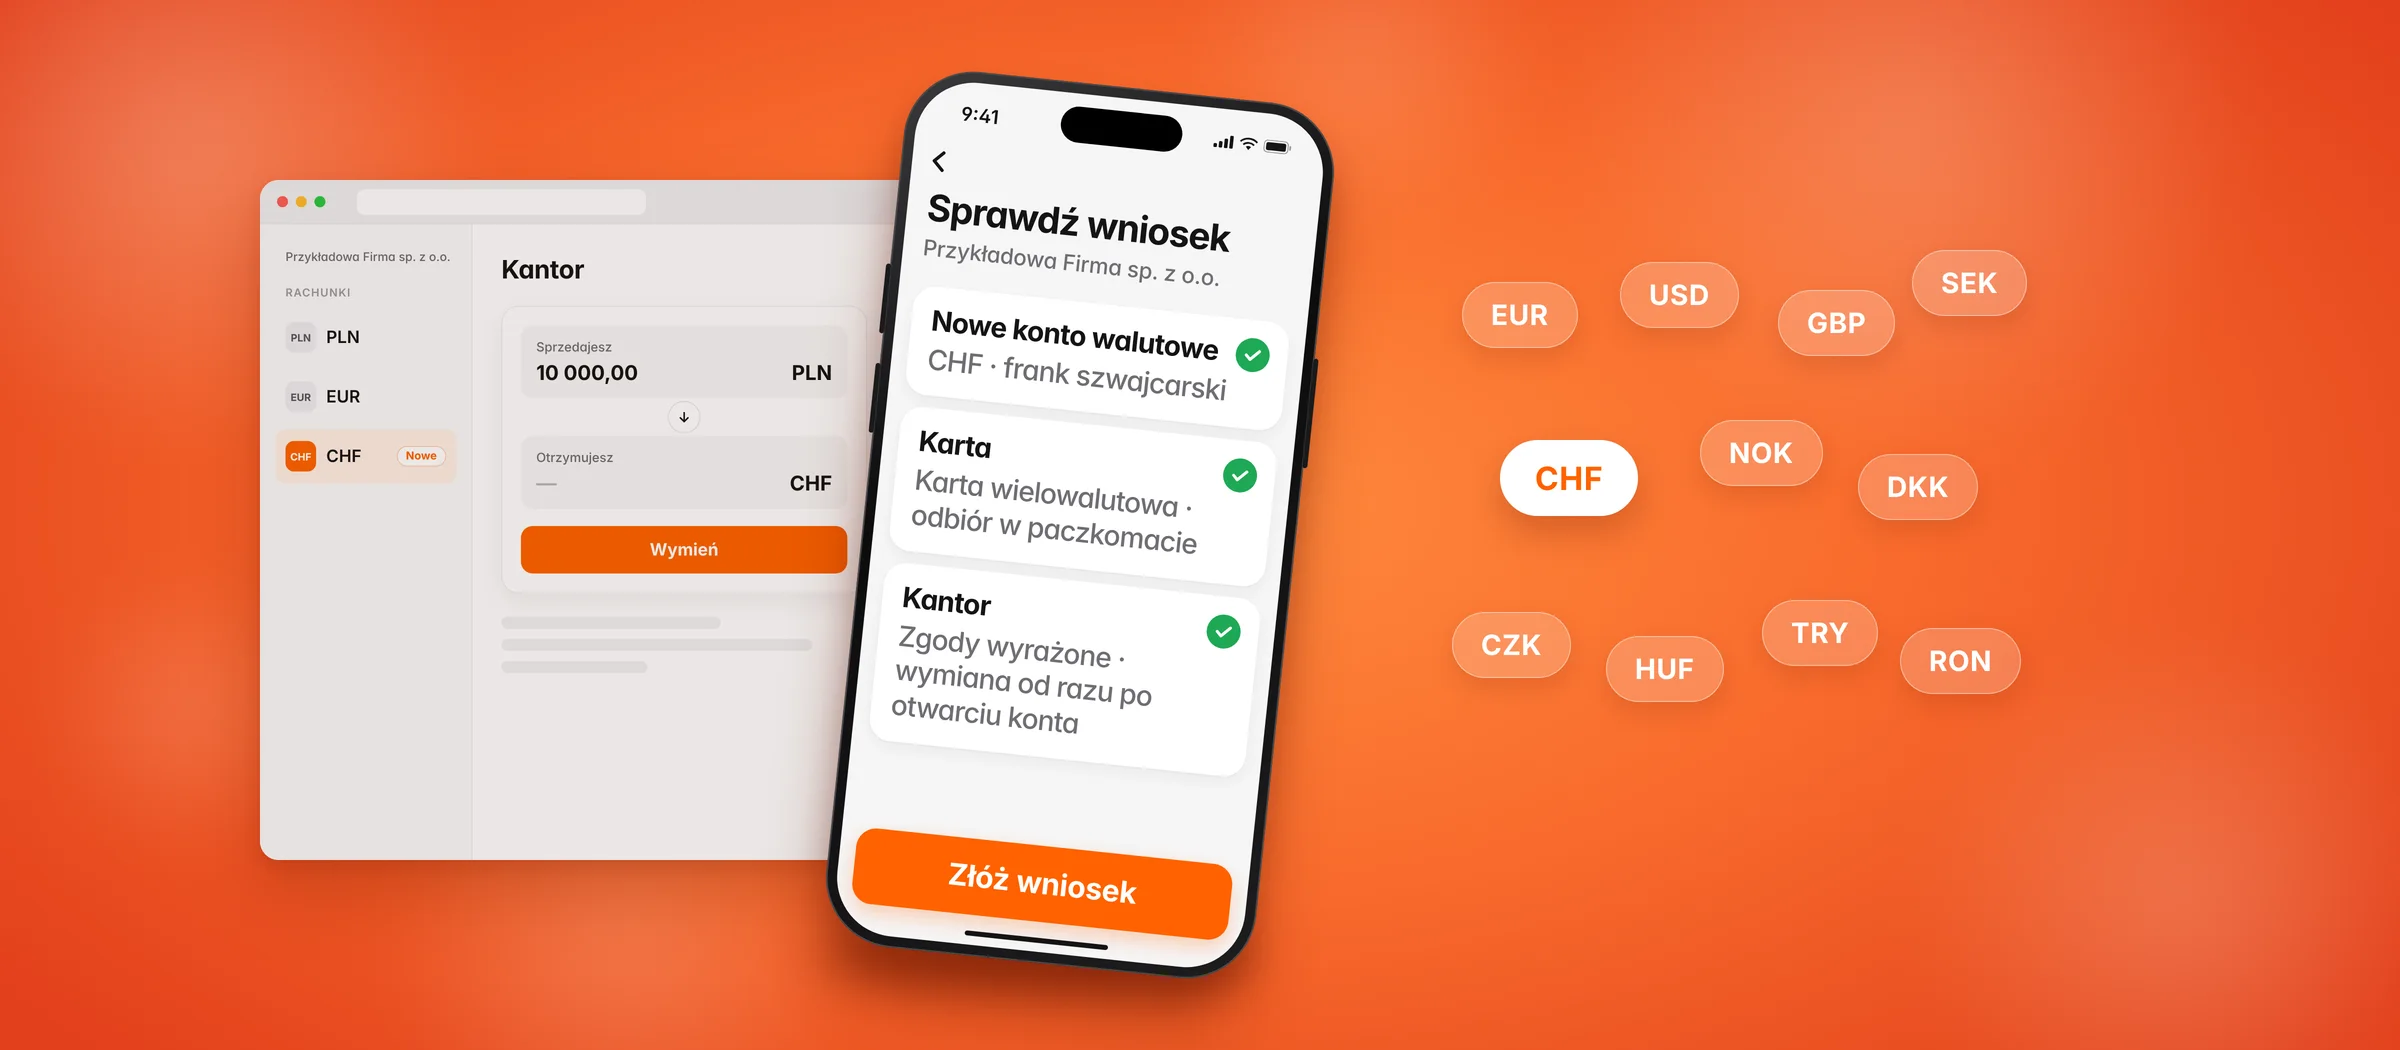
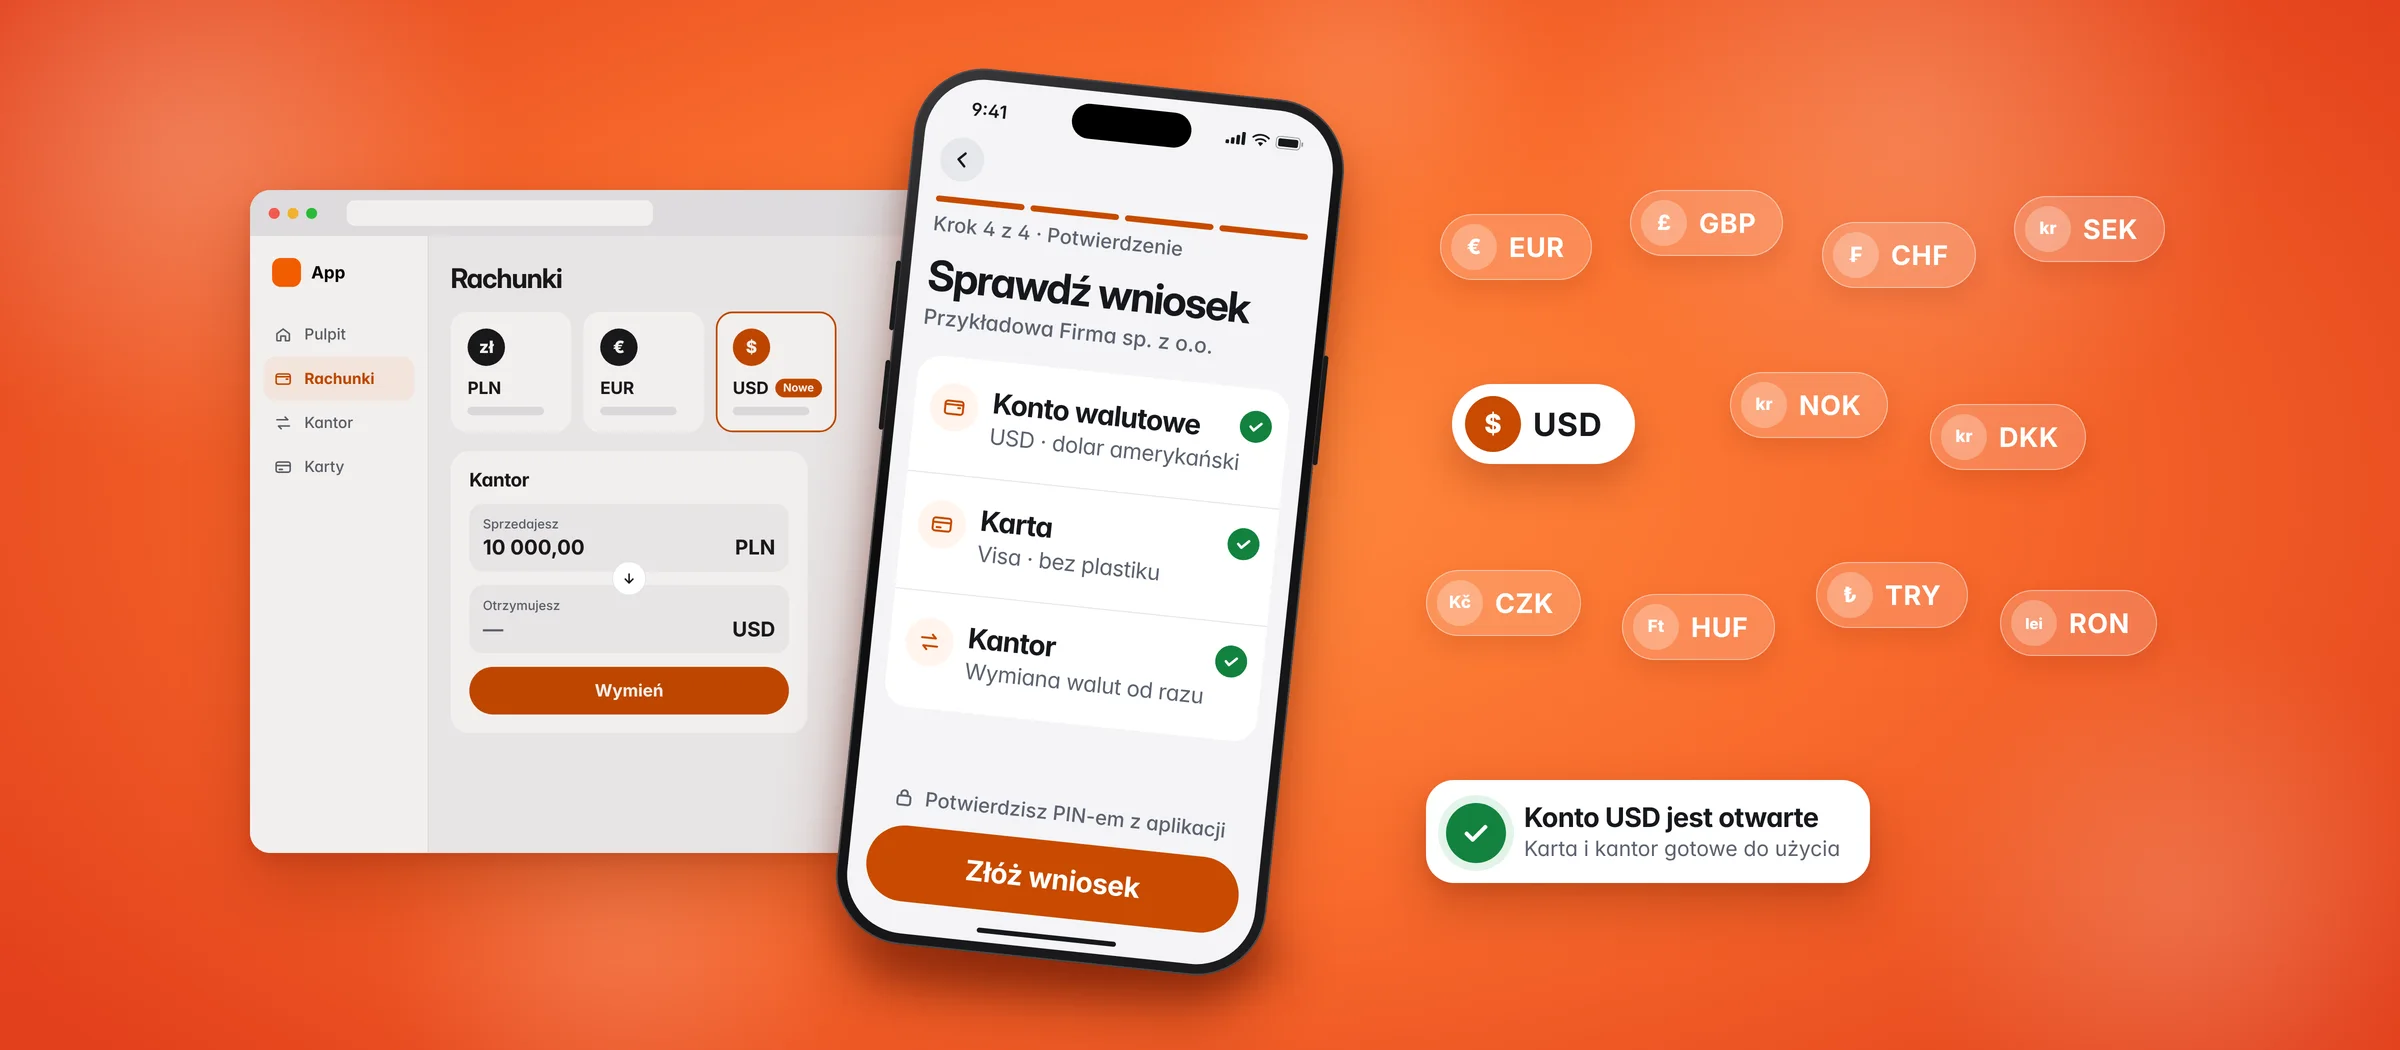
Konta walutowe: nowy key visual (USD, krok 4 z 4) i zaktualizowane teksty alternatywne

diff --git a/src/i18n/translations.ts b/src/i18n/translations.ts
@@ -667,7 +667,7 @@ export const translations: Record<Lang, Record<string, string>> = {
     'fx.ph.7': "Krok 4 — potwierdzenie: podsumowanie wniosku i kod PIN",
     'fx.ph.8': "Gotowe — konto podłączone do karty, przejście do kantoru",
     'fx.gallery.heading': "Potwierdzenie i finał ścieżki",
-    'fx.alt.KV_fx': "Wniosek o konto walutowe w aplikacji bankowej: podsumowanie z nowym kontem CHF, kartą wielowalutową i zgodami do kantoru; w tle wersja webowa kantoru i kody 11 walut",
+    'fx.alt.KV_fx': "Wniosek o konto walutowe w aplikacji bankowej: krok 4 z 4 z podsumowaniem — nowe konto USD, karta Visa bez plastiku i dostęp do kantoru; w tle wersja webowa z nowym rachunkiem USD i kantorem, kody 11 walut i komunikat „Konto USD jest otwarte”",
     'fx.alt.fx_dotychczasowa_sciezka': "Mapa ścieżki klienta przed zmianą: sześć kroków od sprawdzenia oferty (tylko EUR, USD, GBP) przez osobne podłączenie karty i dodatkowe zgody w kantorze, z emocjami klienta i głównymi barierami",
     'fx.alt.fx_glos_klienta': "Głos klienta: trzy wypowiedzi przedsiębiorców o braku potrzebnych walut i rozliczeniach z zagranicznymi kontrahentami",
     'fx.alt.fx_sciezka_przed_i_po': "Porównanie ścieżki przed zmianą (cztery osobne procesy, 3 waluty) i po zmianie (jeden proces online: waluta, karta, umowy i zgody, podsumowanie, gotowe; 11 walut)",
@@ -1349,7 +1349,7 @@ export const translations: Record<Lang, Record<string, string>> = {
     'fx.ph.7': "Step 4 — confirmation: application summary and PIN",
     'fx.ph.8': "Done — account linked to the card, straight to the FX exchange",
     'fx.gallery.heading': "Confirmation and the end of the journey",
-    'fx.alt.KV_fx': "Currency account application in a banking app: summary with a new CHF account, a multi-currency card and FX consents; the web FX exchange and 11 currency codes in the background",
+    'fx.alt.KV_fx': "Currency account application in a banking app: step 4 of 4 summary — a new USD account, a virtual Visa card and FX access; in the background the web app with the new USD account and FX exchange, 11 currency codes and a “USD account is open” message",
     'fx.alt.fx_dotychczasowa_sciezka': "Customer journey map before the change: six steps from checking the offer (EUR, USD, GBP only) through separately linking a card to extra consents in the FX exchange, with client emotions and key barriers",
     'fx.alt.fx_glos_klienta': "Voice of the customer: three business owners on missing currencies and settling with foreign partners",
     'fx.alt.fx_sciezka_przed_i_po': "Before vs after: four separate processes and 3 currencies versus one online process — currency, card, agreements and consents, summary, done — with 11 currencies",
